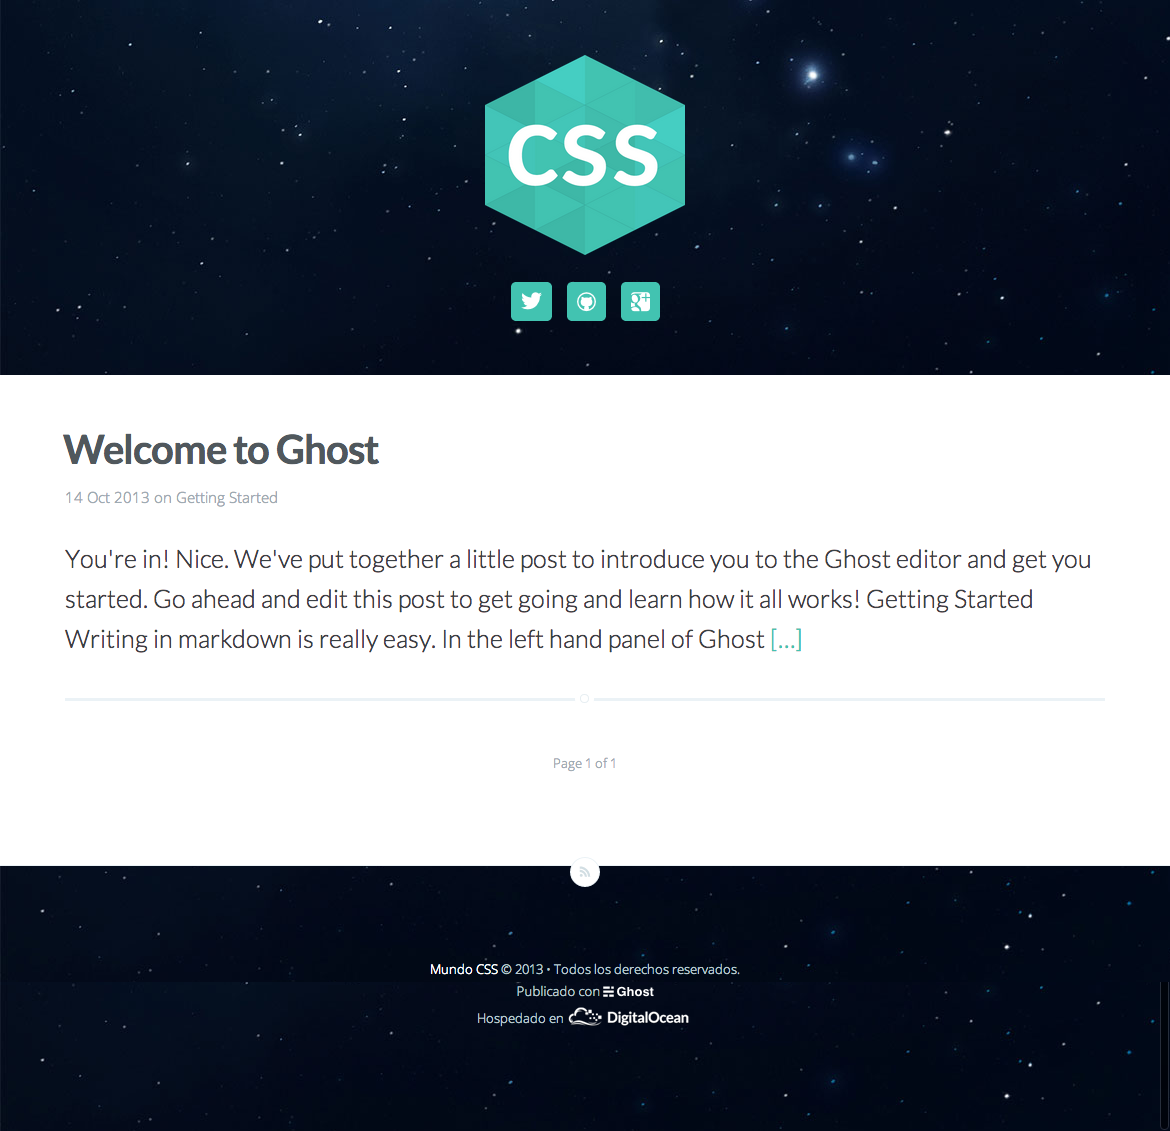
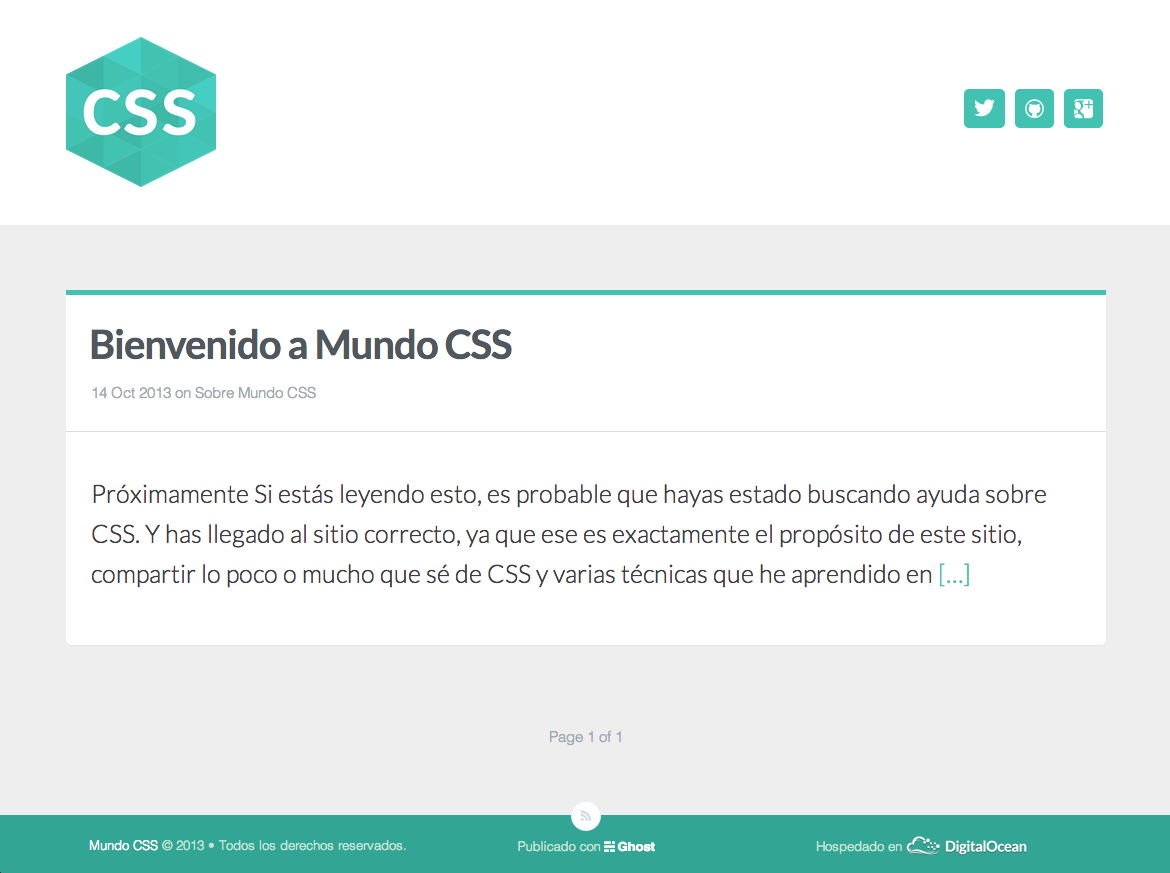
New Design

diff --git a/assets/css/screen.css b/assets/css/screen.css
@@ -62,7 +62,7 @@
   font-family: 'icomoon';
 }
 
-.icon-ghost, .icon-feed, .icon-twitter, .icon-google-plus, .icon-facebook, .icon-github, a.icon {
+.icon-ghost, .icon-twitter, .icon-google-plus, .icon-facebook, .icon-github, a.icon {
   color: #fff;
   speak: none;
   font-style: normal;
@@ -74,7 +74,7 @@
   font-size: 19px;
   padding: 10px;
   border-radius: 5px;
-  margin: 5px;
+  margin-left: 5px;
   background: #42c3b1;
   transition: background .218s,border-color .218s,box-shadow .218s;
   text-decoration: none;
@@ -125,6 +125,16 @@ body {
     line-height: 1.6em;
     color: #3A4145;
     font-weight: 300;
+}
+
+main{
+    background: #EEE;
+    padding: 1em 0;
+}
+
+.post-header{
+    padding: 1em 1em 0.5em 1em;
+    border-bottom: 1px solid #DDD;
 }
 
 ::-moz-selection {
@@ -184,10 +194,13 @@ a {
 
 
 
-.post-header a:hover, .site-footer a:hover{
+.post-header a:hover{ 
     color: #42c3b1;
     border-bottom: 1px solid #42c3b1;
+}
 
+.site-footer a:hover, .hostedby img:hover{
+    border-bottom: 1px solid #fff;
 }
 
 h1 a, h2 a, h3 a,
@@ -378,13 +391,13 @@ table.plain {
 /* Creates a responsive wrapper that makes our content scale nicely */
 .inner {
     position: relative;
-    width: 80%;
-    max-width: 700px;
+    width: 90%;
+    max-width: 1040px;
     margin: 0em auto;
 }
 
 footer .inner{
-    margin: 4em auto;
+    margin: 2em auto;
 }
 
 /* Centres vertically yo. (IE8+) */
@@ -401,8 +414,7 @@ footer .inner{
 /* Big cover image on the home page */
 
 .site-head, .site-footer {
-    background-image: url(/assets/img/bg2.jpg);
-    background-attachment: fixed;
+    background: #fff;
 }
 
 
@@ -410,10 +422,8 @@ footer .inner{
     position: relative;
     display: table;
     width: 100%;
-    height: 15em;
-    margin-bottom: 5rem;
+    height: 9em;
     text-align: center;
-    color: #fff;
 }
 
 /* Yo-logo. Yolo-go. Upload one in ghost/settings/ */
@@ -435,18 +445,20 @@ footer .inner{
 }
 
 .logo {
-    width: 8em;
-    height: 8em;
-    margin: 1em auto;
+    width: 6em;
+    height: 6em;
     margin-top: 0;
     color: transparent;
     background: url(/assets/img/Logo.png) no-repeat;
     background-size: contain;
+    float: left;
 }
 
 .icons {
-    width: 9em;
+    width: 6em;
     margin: auto;
+    padding: 2em 0;
+    float: right;
 }
 
 .icon-twitter:hover, .icon-google-plus:hover, .icon-github:hover, .icon-facebook:hover{
@@ -486,28 +498,12 @@ footer .inner{
     max-width: 1040px;
     margin: 4rem auto;
     padding-bottom: 4rem;
-    border-bottom: #EBF2F6 3px solid;
     word-break: break-word;
     hyphens: auto;
-}
-
-/* Add a little circle in the middle of the border-bottom on our .post
-   just for the lolz and stylepoints. */
-.post:after {
-    display: block;
-    content: "";
-    width: 7px;
-    height: 7px;
-    border: #E7EEF2 1px solid;
-    position: absolute;
-    bottom: -5px;
-    left: 50%;
-    margin-left: -5px;
     background: #fff;
-    -webkit-border-radius: 100%;
-    -moz-border-radius: 100%;
-    border-radius: 100%;
-    box-shadow: #fff 0 0 0 5px;
+    border-radius: 0 0 5px 5px;
+    border-top: 5px solid #42c3b1;
+    box-shadow: 0px 1px 1px rgba(0,0,0,.05);
 }
 
 .post-title {
@@ -516,6 +512,9 @@ footer .inner{
 
 .post-title a {
     text-decoration: none;
+}
+.post-excerpt{
+    padding: 1em 1em 0.5em 1em;
 }
 
 .post-excerpt p {
@@ -709,9 +708,10 @@ footer .inner{
     max-width: 700px;
     margin: 4rem auto;
     font-family: 'Open Sans', sans-serif;
-    font-size: 1.3rem;
+    font-size: 1.5rem;
     color: #9EABB3;
     text-align: center;
+    padding: 3rem 0;
 }
 
 .pagination a {
@@ -755,18 +755,19 @@ footer .inner{
 
 .site-footer {
     position: relative;
-    margin: 8rem 0 0 0;
-    padding: 4rem 0;
+    margin: 0;
+    padding: 0;
     border-top: #EBF2F6 1px solid;
     font-family: 'Open Sans', sans-serif;
     font-size: 1.3rem;
     line-height: 1.7em;
-    color: #BBC7CC;
+    color: #C5E2D4;
     text-align: center;
+    background: #33A595;
+    height: 4.5em;
 }
 
 .site-footer a {
-    color: #fff;
     text-decoration: none;
     padding: 0;
 }
@@ -795,6 +796,7 @@ footer .inner{
 
 .hostedby{
     display: inline-block;
+    margin-top: -4px;
 }
 
 .hostedby p {
@@ -809,11 +811,6 @@ footer .inner{
 
 .hostedby a:hover{
     border-bottom: none;
-}
-
-.hostedby img:hover{
-    background: #42c3b1;
-    transition: background .5s;
 }
 
 /* The subscribe icon on the footer */
@@ -1049,10 +1046,13 @@ footer .inner{
     }
 
     .site-footer {
-        margin-top: 6rem;
         font-size: 1.1rem;
     }
 
+    .copyright, .poweredby, .hostedby{
+        float: none;
+        width: 100%
+    }
 }
 
 /* ==========================================================================
